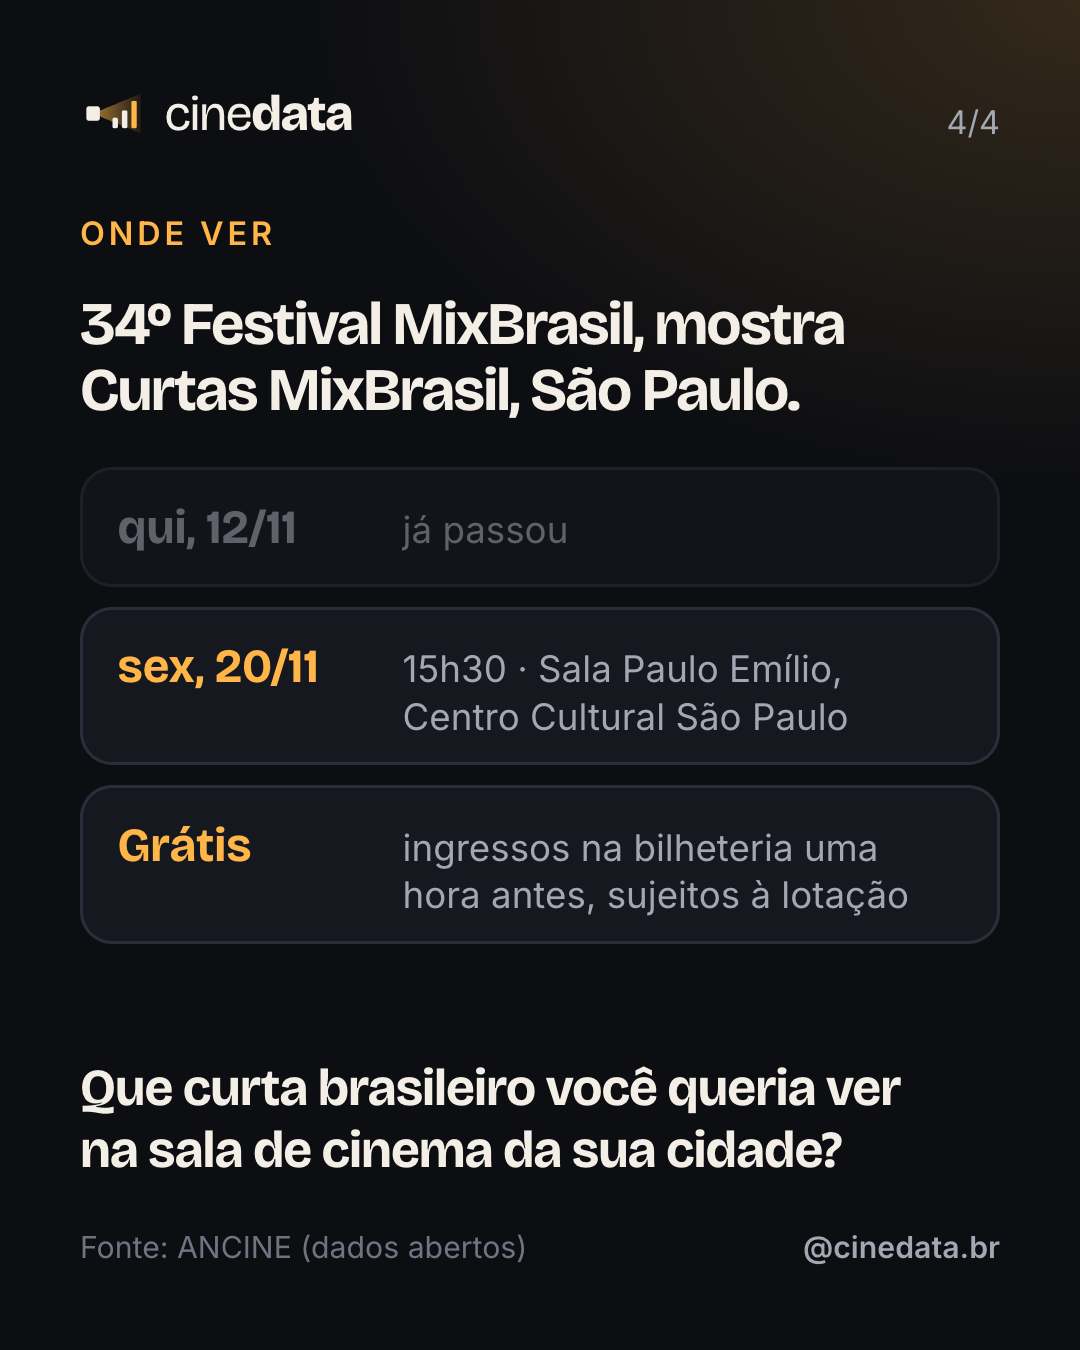
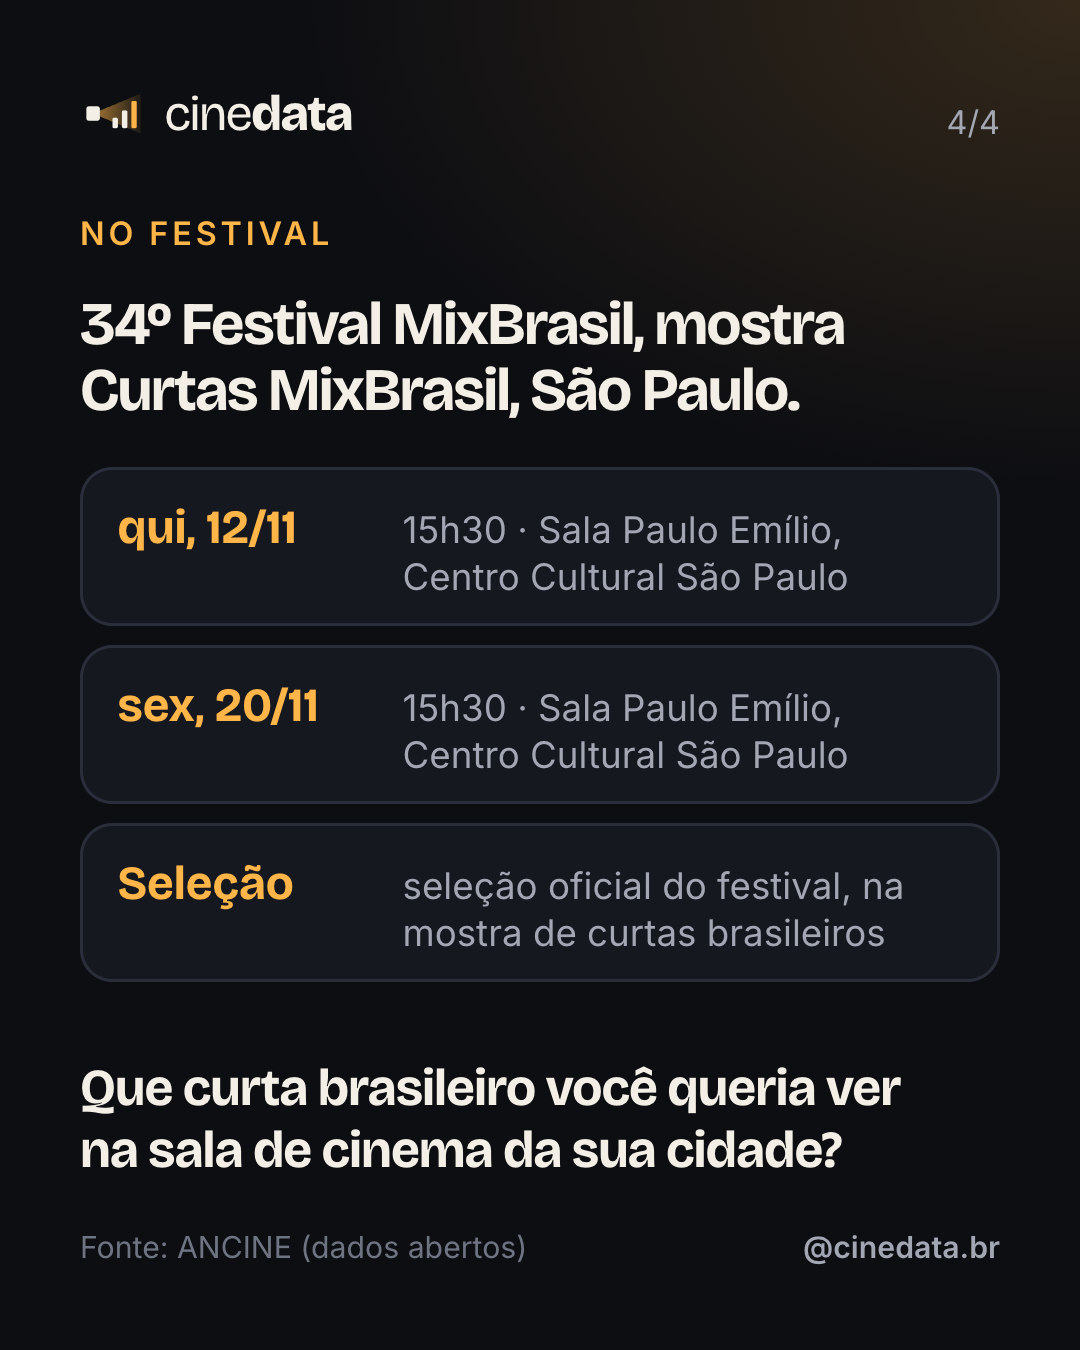
No festival: Se a Maré Te Trouxe, Fica revisado depois das sessões do MixBrasil

diff --git a/cinedata.front/src/app/features/marca/slides-festival-se-a-mare.ts b/cinedata.front/src/app/features/marca/slides-festival-se-a-mare.ts
@@ -14,14 +14,14 @@ const bahia = { salas: 141, municipiosComSala: 24, municipiosComSessao: 21, publ
 
 /** Sessões no 34º Festival MixBrasil (11 a 22/11/2026, São Paulo). */
 const sessoes = [
-  { dia: 'qui', data: '12/11', hora: '15h30', passou: true },
+  { dia: 'qui', data: '12/11', hora: '15h30', passou: false },
   { dia: 'sex', data: '20/11', hora: '15h30', passou: false },
 ];
 
 const umaCasa = new Intl.NumberFormat('pt-BR', { minimumFractionDigits: 1, maximumFractionDigits: 1 });
 
 /**
- * CineData | No festival: Se a Maré Te Trouxe, Fica no 34º Festival MixBrasil (sessão de 20/11/2026). 4 slides
+ * CineData | No festival: Se a Maré Te Trouxe, Fica no 34º Festival MixBrasil (sessões de 12 e 20/11/2026). 4 slides
  * 1080×1350: capa, o filme, Cachoeira e a Bahia nos dados, onde ver.
  */
 @Component({
@@ -45,8 +45,8 @@ const umaCasa = new Intl.NumberFormat('pt-BR', { minimumFractionDigits: 1, maxim
           <span class="selo">CineData <i>|</i> No festival</span>
           <p class="manchete grande">Se a Maré Te Trouxe, Fica</p>
           <p class="texto claro">
-            O curta baiano de Gabriel Fonseca, filmado em Cachoeira, tem sessão no 34º Festival MixBrasil nesta sexta,
-            20/11, às 15h30, em São Paulo.
+            O curta baiano de Gabriel Fonseca, filmado em Cachoeira, passou pelo 34º Festival MixBrasil, em São Paulo,
+            em duas sessões em novembro.
           </p>
         </div>
         <p class="arraste">O filme e a cidade →</p>
@@ -86,16 +86,16 @@ const umaCasa = new Intl.NumberFormat('pt-BR', { minimumFractionDigits: 1, maxim
 
       <!-- 4. Onde ver -->
       <cd-slide [numero]="4" [total]="4">
-        <span class="rotulo">Onde ver</span>
+        <span class="rotulo">No festival</span>
         <p class="manchete fecho">34º Festival MixBrasil, mostra Curtas MixBrasil, São Paulo.</p>
         <ul class="agenda">
           @for (s of sessoes; track s.data) {
             <li [class.passou]="s.passou">
               <strong>{{ s.dia }}, {{ s.data }}</strong>
-              <span>{{ s.passou ? 'já passou' : s.hora + ' · Sala Paulo Emílio, Centro Cultural São Paulo' }}</span>
+              <span>{{ s.hora }} · Sala Paulo Emílio, Centro Cultural São Paulo</span>
             </li>
           }
-          <li><strong>Grátis</strong><span>ingressos na bilheteria uma hora antes, sujeitos à lotação</span></li>
+          <li><strong>Seleção</strong><span>seleção oficial do festival, na mostra de curtas brasileiros</span></li>
         </ul>
         <p class="pergunta">Que curta brasileiro você queria ver na sala de cinema da sua cidade?</p>
       </cd-slide>

diff --git a/docs/posts/festival-se-a-mare-te-trouxe-fica/legenda.md b/docs/posts/festival-se-a-mare-te-trouxe-fica/legenda.md
@@ -1,17 +1,17 @@
 # CineData | No festival · Se a Maré Te Trouxe, Fica
 
 Primeiro post do formato [No festival](../../conteudo/formatos/festival.md). O curta baiano de Gabriel Fonseca, filmado
-em Cachoeira (BA), tem sessão no 34º Festival MixBrasil na sexta, 20/11/2026, às 15h30, em São Paulo. O filme não tem
+em Cachoeira (BA), passou pelo 34º Festival MixBrasil, em São Paulo, com sessões em 12 e 20/11/2026. Revisado em 24/11,
+depois das sessões: o post fala do festival no passado. O filme não tem
 bilheteria na ANCINE (curta em festival); o número do post é o da cidade: Cachoeira tem 1 sala no cadastro, sem
-sessões informadas. Carrossel de 4 slides 1080×1350. Publicar quinta (19/11) ou sexta de manhã (20/11); depois da
-sessão, o post perde o sentido.
+sessões informadas. Carrossel de 4 slides 1080×1350. Publicar quando houver vaga na semana.
 
 | Slide | Arquivo | Conteúdo |
 | --- | --- | --- |
-| 1 | `slide-01.png` | capa: os Caretas no barco; "Se a Maré Te Trouxe, Fica"; sessão no MixBrasil na sexta, 20/11, às 15h30 |
+| 1 | `slide-01.png` | capa: os Caretas no barco; "Se a Maré Te Trouxe, Fica"; passou pelo 34º Festival MixBrasil em duas sessões |
 | 2 | `slide-02.png` | o filme: sinopse, pôster; direção e roteiro, elenco, filmado em Cachoeira (BA), 19 minutos, Lei Paulo Gustavo; o que são os Caretas |
 | 3 | `slide-03.png` | Cachoeira nos dados: 1 sala no cadastro (Cine Theatro Cachoeirano, da prefeitura, 180 lugares, não comercial, sem sessões); Bahia: 141 salas em 24 municípios, Salvador com 56% dos ingressos de 2026 |
-| 4 | `slide-04.png` | onde ver: 12/11 (já passou) e 20/11, 15h30, Sala Paulo Emílio do Centro Cultural São Paulo; grátis; "Que curta brasileiro você queria ver na sala de cinema da sua cidade?" |
+| 4 | `slide-04.png` | no festival: 12/11 e 20/11, 15h30, Sala Paulo Emílio do Centro Cultural São Paulo; seleção oficial; "Que curta brasileiro você queria ver na sala de cinema da sua cidade?" |
 
 Os PNGs vêm da rota `/marca/festival-se-a-mare` (`cinedata.front/src/app/features/marca/slides-festival-se-a-mare.ts`):
 
@@ -22,12 +22,12 @@ node scripts/exportar-slides.mjs /marca/festival-se-a-mare ../docs/posts/festiva
 
 ## Legenda
 
-Contagem: 1.126 caracteres (limite do Instagram: 2.200).
+Contagem: 1.108 caracteres (limite do Instagram: 2.200).
 
 ```text
 Se a Maré Te Trouxe, Fica 🌊🎭
 
-O curta baiano de Gabriel Fonseca passa no 34º Festival MixBrasil nesta sexta, 20/11, às 15h30, em São Paulo. A entrada é gratuita.
+O curta baiano de Gabriel Fonseca passou pelo 34º Festival MixBrasil, em São Paulo, com duas sessões em novembro.
 
 No último Carnaval como Careta antes de deixar a cidade, Samuel (Lucas Leto) se apaixona por Beto (Rafa Martins), um estranho de beleza sobrenatural. A festa termina no rio. Os Caretas são os mascarados do Carnaval de cidades do interior da Bahia.
 

diff --git a/cinedata.front/conteudo/materias/se-a-mare-te-trouxe-fica-mixbrasil.md b/cinedata.front/conteudo/materias/se-a-mare-te-trouxe-fica-mixbrasil.md
@@ -1,6 +1,6 @@
 ---
 titulo: "Se a Maré Te Trouxe, Fica: o curta baiano no MixBrasil e o cinema de Cachoeira nos dados"
-resumo: O curta de Gabriel Fonseca, filmado em Cachoeira (BA), passa no 34º Festival MixBrasil em 20 de novembro. Na ANCINE, a cidade tem uma sala de cinema registrada, da prefeitura, sem nenhuma sessão na bilheteria.
+resumo: O curta de Gabriel Fonseca, filmado em Cachoeira (BA), passou pelo 34º Festival MixBrasil em novembro. Na ANCINE, a cidade tem uma sala de cinema registrada, da prefeitura, sem nenhuma sessão na bilheteria.
 data: 2026-11-18
 formato: Festival
 imagem: https://image.tmdb.org/t/p/w1280/j3v6X31G84DPKjeMBbPjddcRUar.jpg
@@ -16,10 +16,9 @@ fontes:
     url: https://www.cinevitor.com.br/festival-mix-brasil-2026-conheca-os-longas-e-curtas-brasileiros-selecionados/
 ---
 
-**Se a Maré Te Trouxe, Fica**, curta de **Gabriel Fonseca**, passa no **34º Festival MixBrasil** na sexta, **20 de
-novembro de 2026, às 15h30**, na Sala Paulo Emílio (Spcine CCSP) do Centro Cultural São Paulo. A entrada é gratuita,
-com ingressos distribuídos na bilheteria uma hora antes, sujeitos à lotação. O filme já tinha passado no festival em
-12 de novembro.
+**Se a Maré Te Trouxe, Fica**, curta de **Gabriel Fonseca**, passou pelo **34º Festival MixBrasil**, em São Paulo,
+com duas sessões gratuitas na Sala Paulo Emílio (Spcine CCSP) do Centro Cultural São Paulo: em **12 e 20 de novembro
+de 2026**, às 15h30.
 
 ## O filme
 
